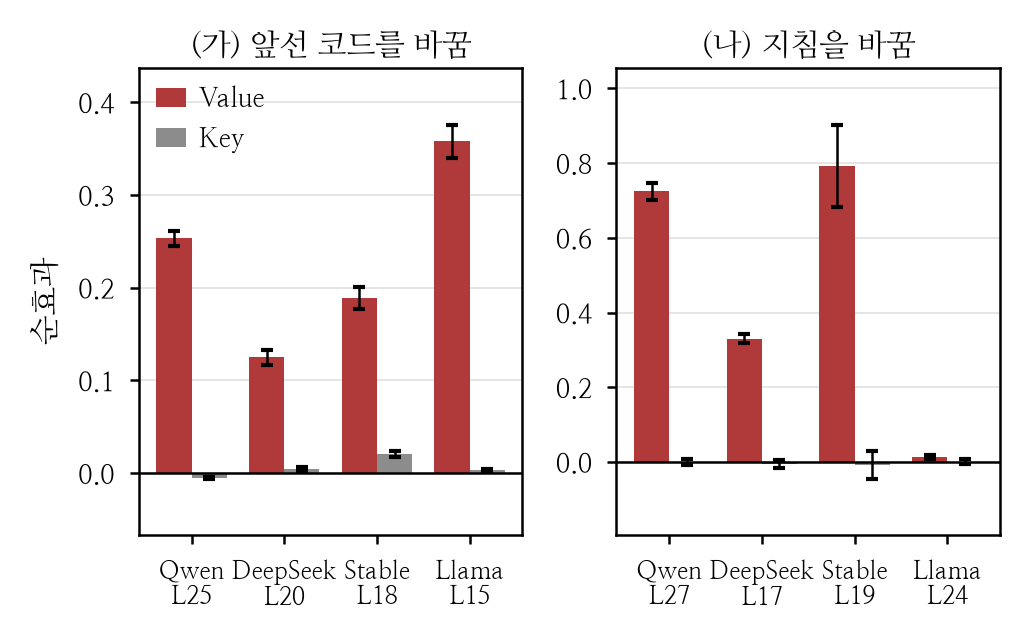
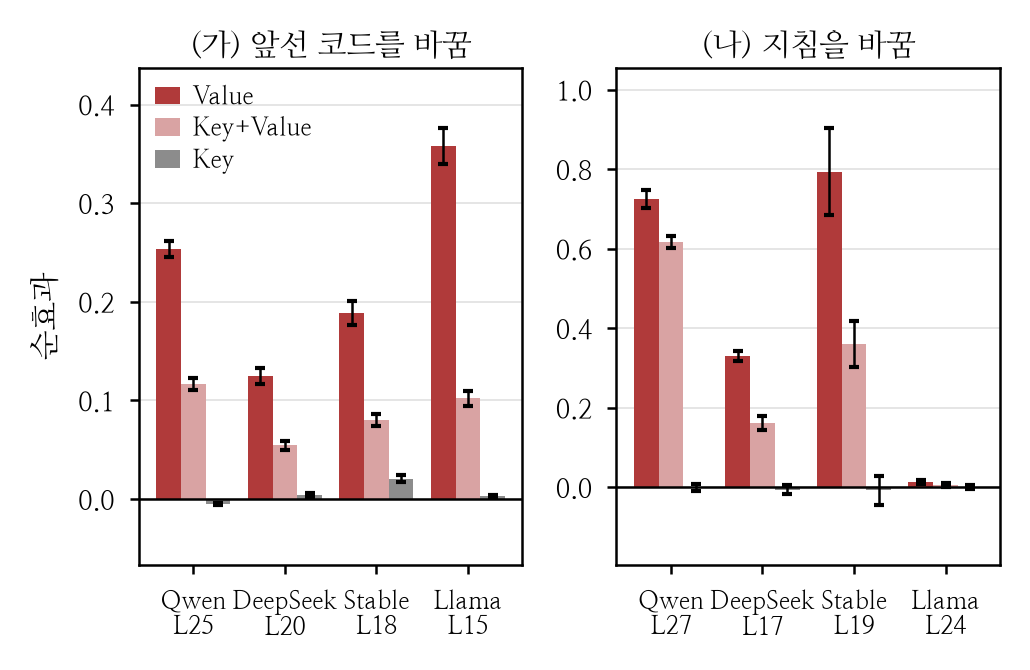
그림 3에 Key+Value를 넣는다
세 경로 중 K+V가 빠져 있었다. 이 값이 Value 단독보다 작아진다는 것이
'어텐션 배분도 전달에 관여한다'는 주장의 유일한 근거인데 그림에 없었다.

'절반 이하'라는 서술도 고친다. 여덟 경우 중 일곱은 절반 안팎이거나 그 아래지만
Qwen 지침 실험은 85%다. 여덟 경우 모두 Value 단독보다 작다는 것까지만 적는다.

Claude-Session: https://claude.ai/code/session_01W6b6Aj23yMfdKeEE9zKYe1

diff --git a/scripts/paper_figures_ko.py b/scripts/paper_figures_ko.py
@@ -172,7 +172,7 @@ def _step3_net():
         b = r["condition"]["preceding"]["pool_block"]
         d = r["metrics"]["extra"]["donor"]
         for L, v in r["metrics"]["per_layer"].items():
-            for k in ("key", "value"):
+            for k in ("key", "value", "key_value"):
                 x = v.get(f"{k}__recovery")
                 if x is not None:
                     cube[m][d][int(L)][k][b] = x
@@ -226,7 +226,7 @@ def _step3_curves():
         b = r["condition"]["preceding"]["pool_block"]
         d = r["metrics"]["extra"]["donor"]
         for L, v in r["metrics"]["per_layer"].items():
-            for k in ("key", "value"):
+            for k in ("key", "value", "key_value"):
                 x = v.get(f"{k}__recovery")
                 if x is not None:
                     cube[m][d][int(L)][k][b] = x
@@ -234,7 +234,7 @@ def _step3_curves():
     for m in MODELS:
         layers = sorted(cube[m]["unrelated_camel"])
         cur = {"layers": layers}
-        for k in ("value", "key"):
+        for k in ("value", "key", "key_value"):
             ys, cs = [], []
             for L in layers:
                 a_, b_ = cube[m]["unrelated_camel"][L][k], cube[m]["unrelated_snake"][L][k]
@@ -256,7 +256,7 @@ def _step5_curves():
                 continue
             m = r["condition"]["model"]["family"]
             for L, v in r["metrics"]["per_layer"].items():
-                for k in ("value", "key"):
+                for k in ("value", "key", "key_value"):
                     x = v.get(f"{k}__recovery")
                     if x is not None:
                         acc[m][(int(L), k)].append(x)
@@ -270,7 +270,7 @@ def _step5_curves():
         if not layers:
             continue
         cur = {"layers": layers}
-        for k in ("value", "key"):
+        for k in ("value", "key", "key_value"):
             cur[k] = [st.mean(treat[m][(L, k)]) - st.mean(ctrl[m][(L, k)]) for L in layers]
             # 두 실행분의 구간을 보수적으로 더한다
             cur[k + "_ci"] = [ci95(treat[m][(L, k)])[1] + ci95(ctrl[m][(L, k)])[1]
@@ -345,12 +345,13 @@ def fig_intervene(out: Path):
     """개입 — 봉우리 층에서 Value와 Key를 각각 치환했을 때의 순효과."""
     code, instr = _step3_curves(), _step5_curves()
 
-    fig, axes = plt.subplots(1, 2, figsize=(3.3, 2.0))
+    fig, axes = plt.subplots(1, 2, figsize=(3.3, 2.1))
     for ax, (src, title) in zip(axes, ((code, "(가) 앞선 코드를 바꿈"),
                                        (instr, "(나) 지침을 바꿈"))):
         x = list(range(len(ORDER)))
-        for off, key, face, lab in ((-0.5, "value", RED, "Value"),
-                                    (0.5, "key", GRAY, "Key")):
+        for off, key, face, lab in ((-1, "value", RED, "Value"),
+                                    (0, "key_value", "#D9A3A3", "Key+Value"),
+                                    (1, "key", GRAY, "Key")):
             ys, es, cols = [], [], []
             for m in ORDER:
                 if m not in src:
@@ -358,7 +359,7 @@ def fig_intervene(out: Path):
                 k = max(range(len(src[m]["layers"])), key=lambda i: src[m]["value"][i])
                 ys.append(src[m][key][k]); es.append(src[m][key + "_ci"][k])
                 cols.append(face)
-            ax.bar([i + off * 0.38 for i in x], ys, 0.38, yerr=es, capsize=1.4,
+            ax.bar([i + off * 0.27 for i in x], ys, 0.27, yerr=es, capsize=1.2,
                    color=cols, linewidth=0, label=lab,
                    error_kw={"linewidth": 0.6, "ecolor": "black"})
         ax.axhline(0, color="black", linewidth=0.6)
@@ -372,7 +373,8 @@ def fig_intervene(out: Path):
         ax.margins(y=0.16)
         _tidy(ax)
     axes[0].set_ylabel("순효과", fontsize=7.5)
-    axes[0].legend(fontsize=6.4, loc="upper left", handlelength=1.1, borderaxespad=0.25)
+    axes[0].legend(fontsize=6.0, loc="upper left", handlelength=1.0,
+                   borderaxespad=0.25, labelspacing=0.25)
     fig.tight_layout(pad=0.3, w_pad=1.0)
     _save(fig, out, "ko_intervene")
 
